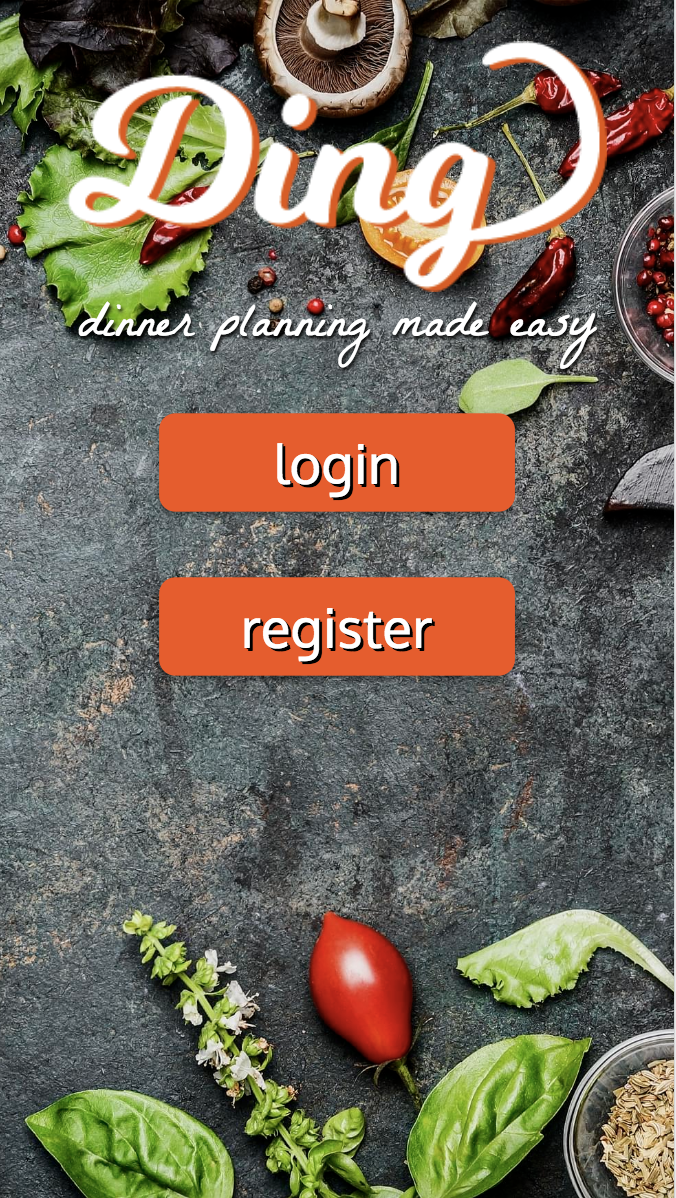
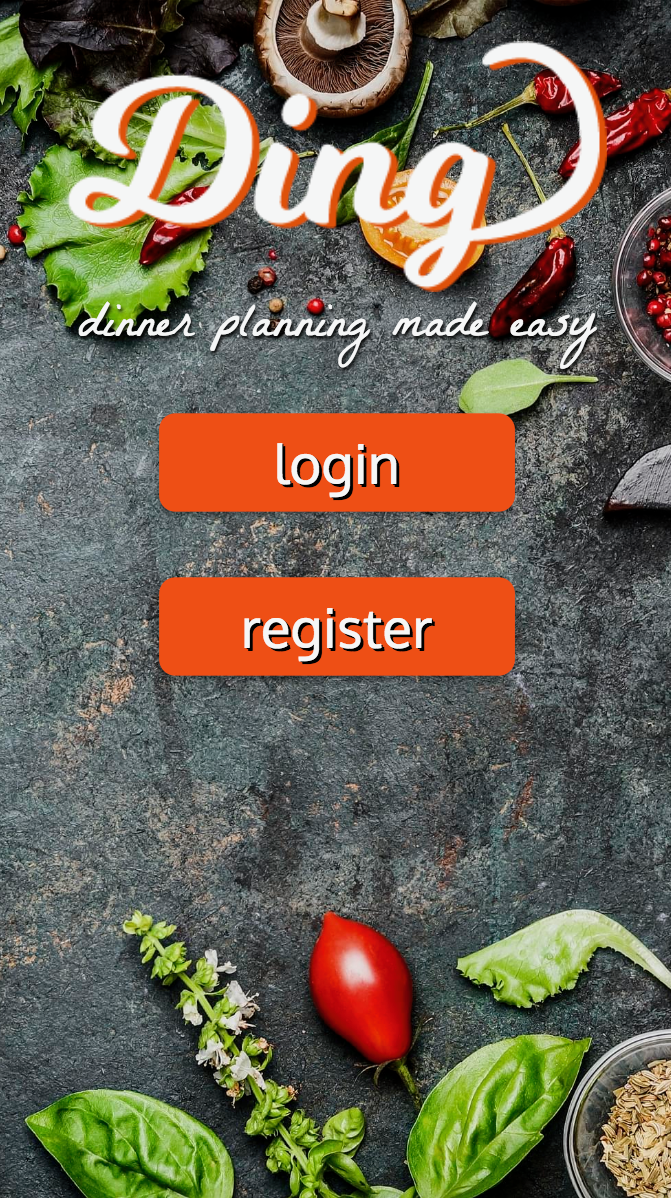
cropped ding picture and fixed url

diff --git a/Portfolio/index.html b/Portfolio/index.html
@@ -457,7 +457,7 @@
                                                         <p><a href="https://github.com/KaneMJ/c1.18_FoodTinder" target="_blank"><span>GitHub</span></a></br><a href="https://dingdinner.com" target="_blank"><span>Live</span></a></p>
                                                     </div>
                                                 </div>
-                                                <img src="assets/ding.jpg" alt="image" class="img-responsive dingImg">
+                                                <img src="assets/ding.png" alt="image" class="img-responsive dingImg">
 
                                             </div>
                                         </div>
